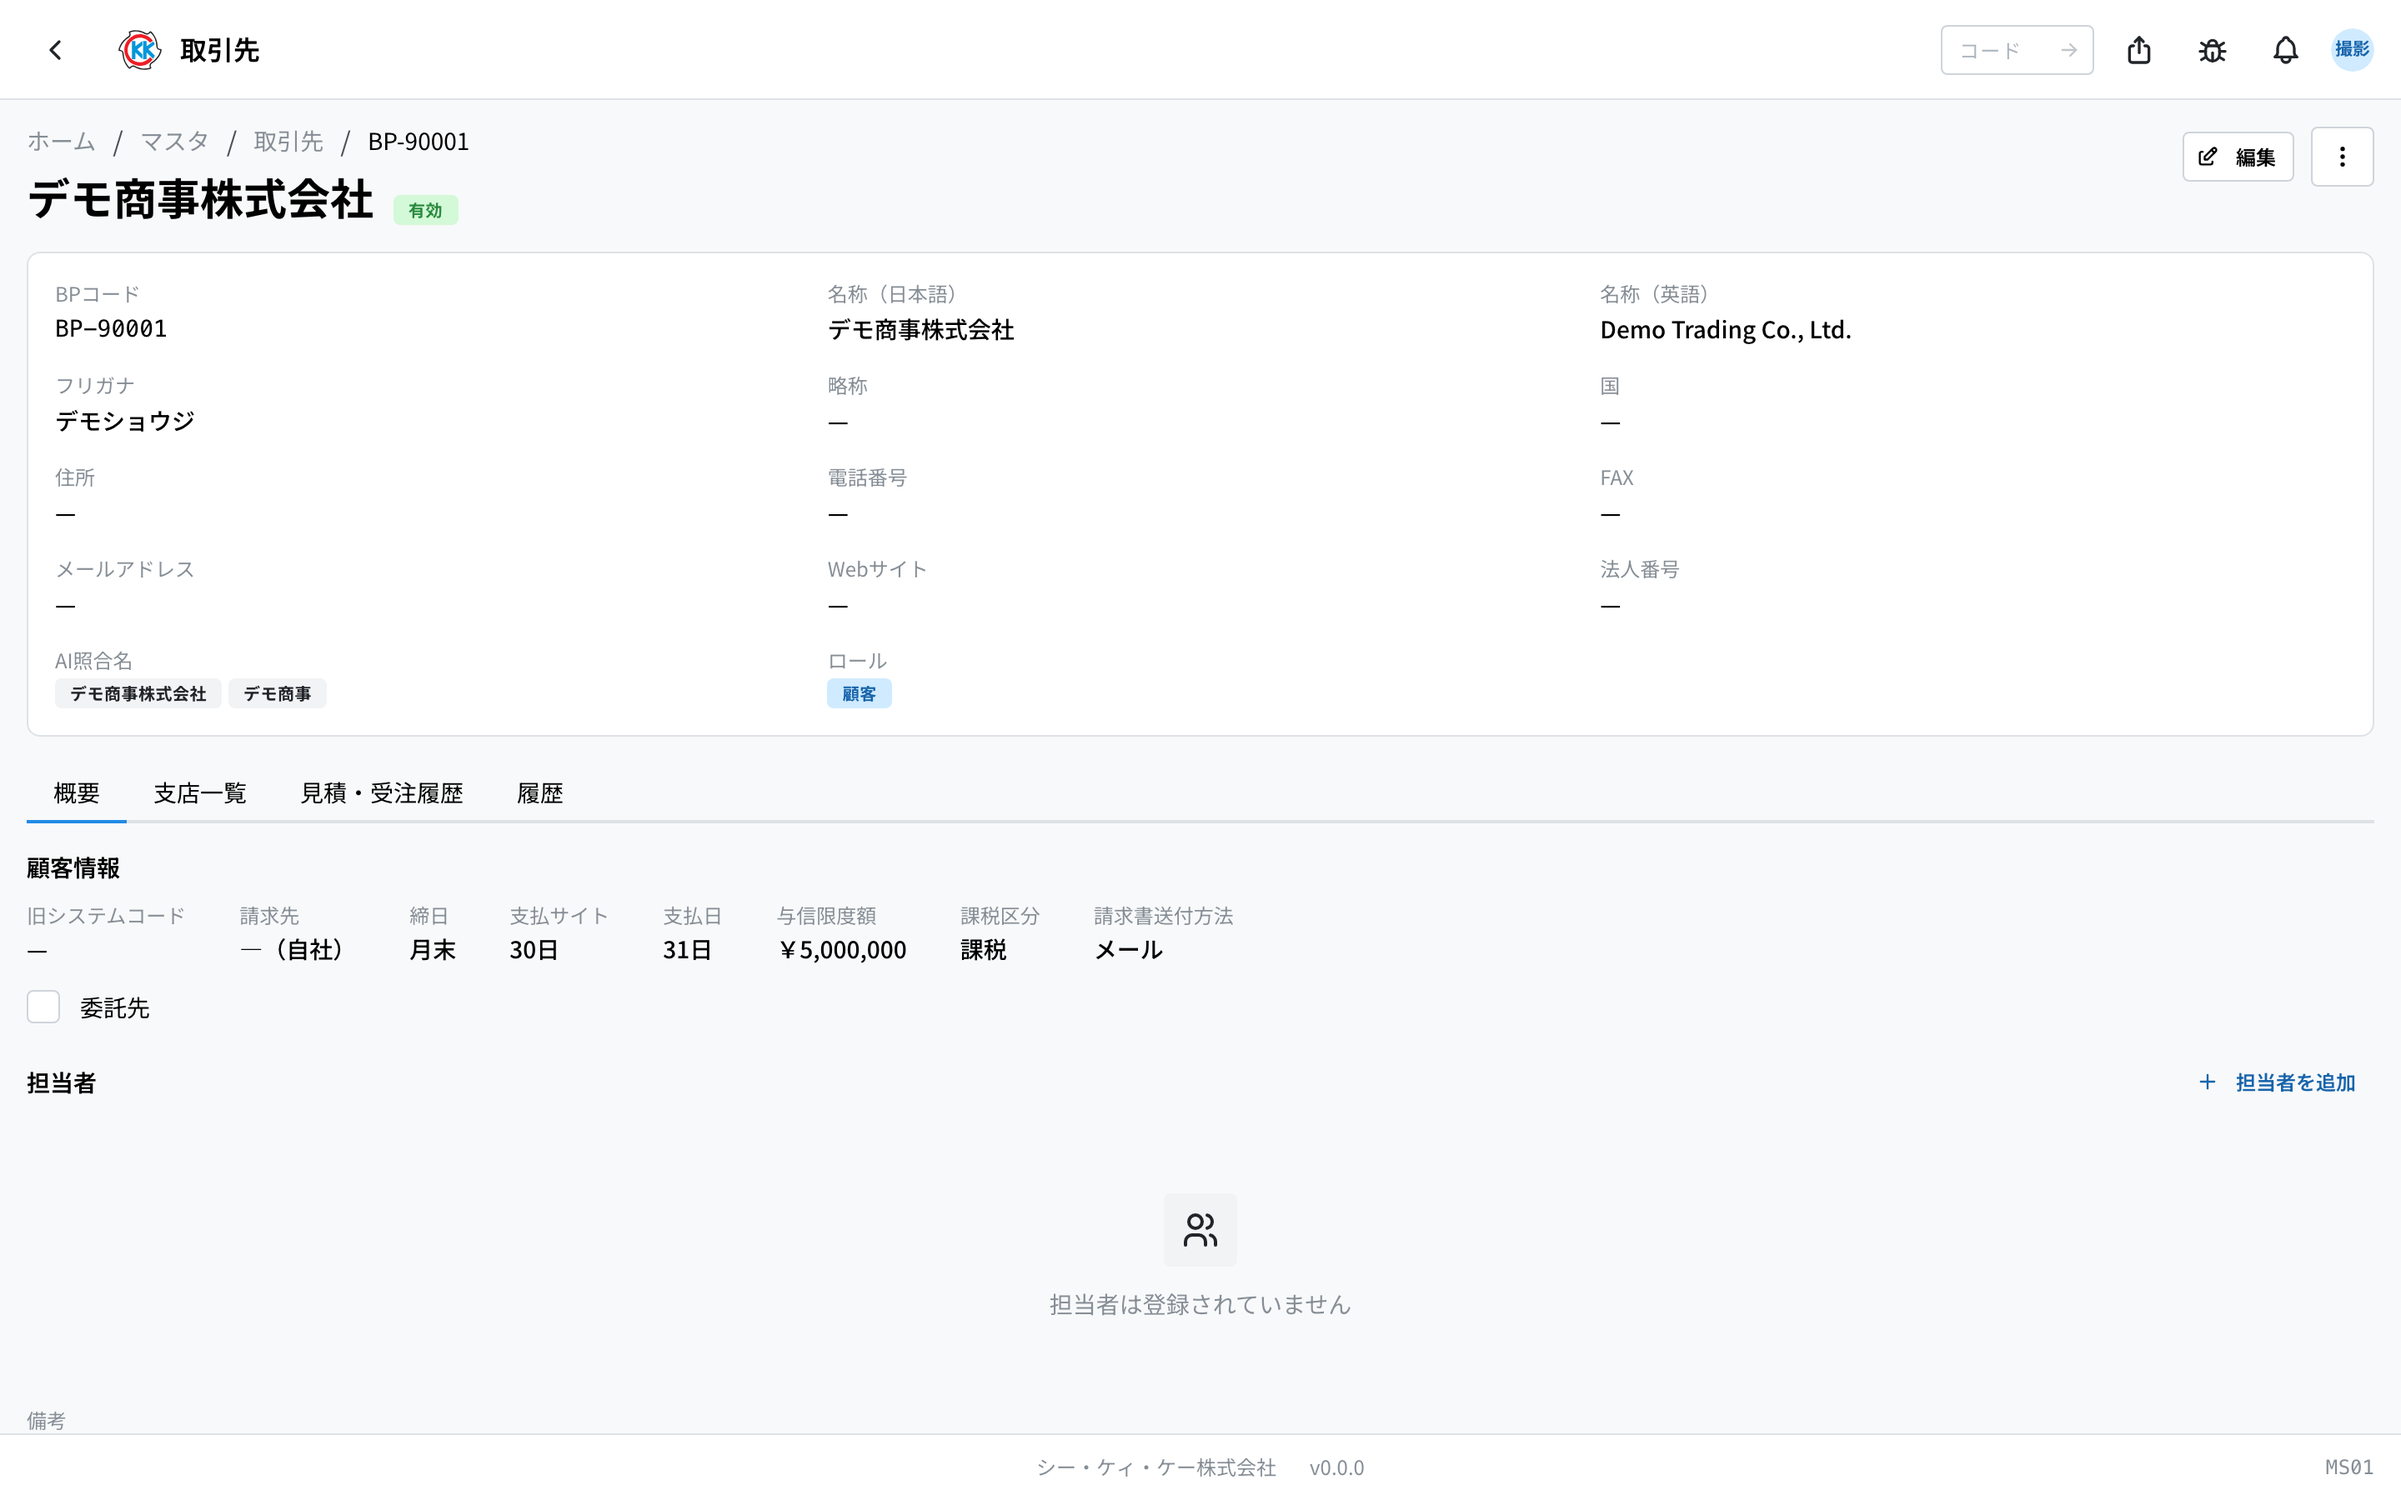
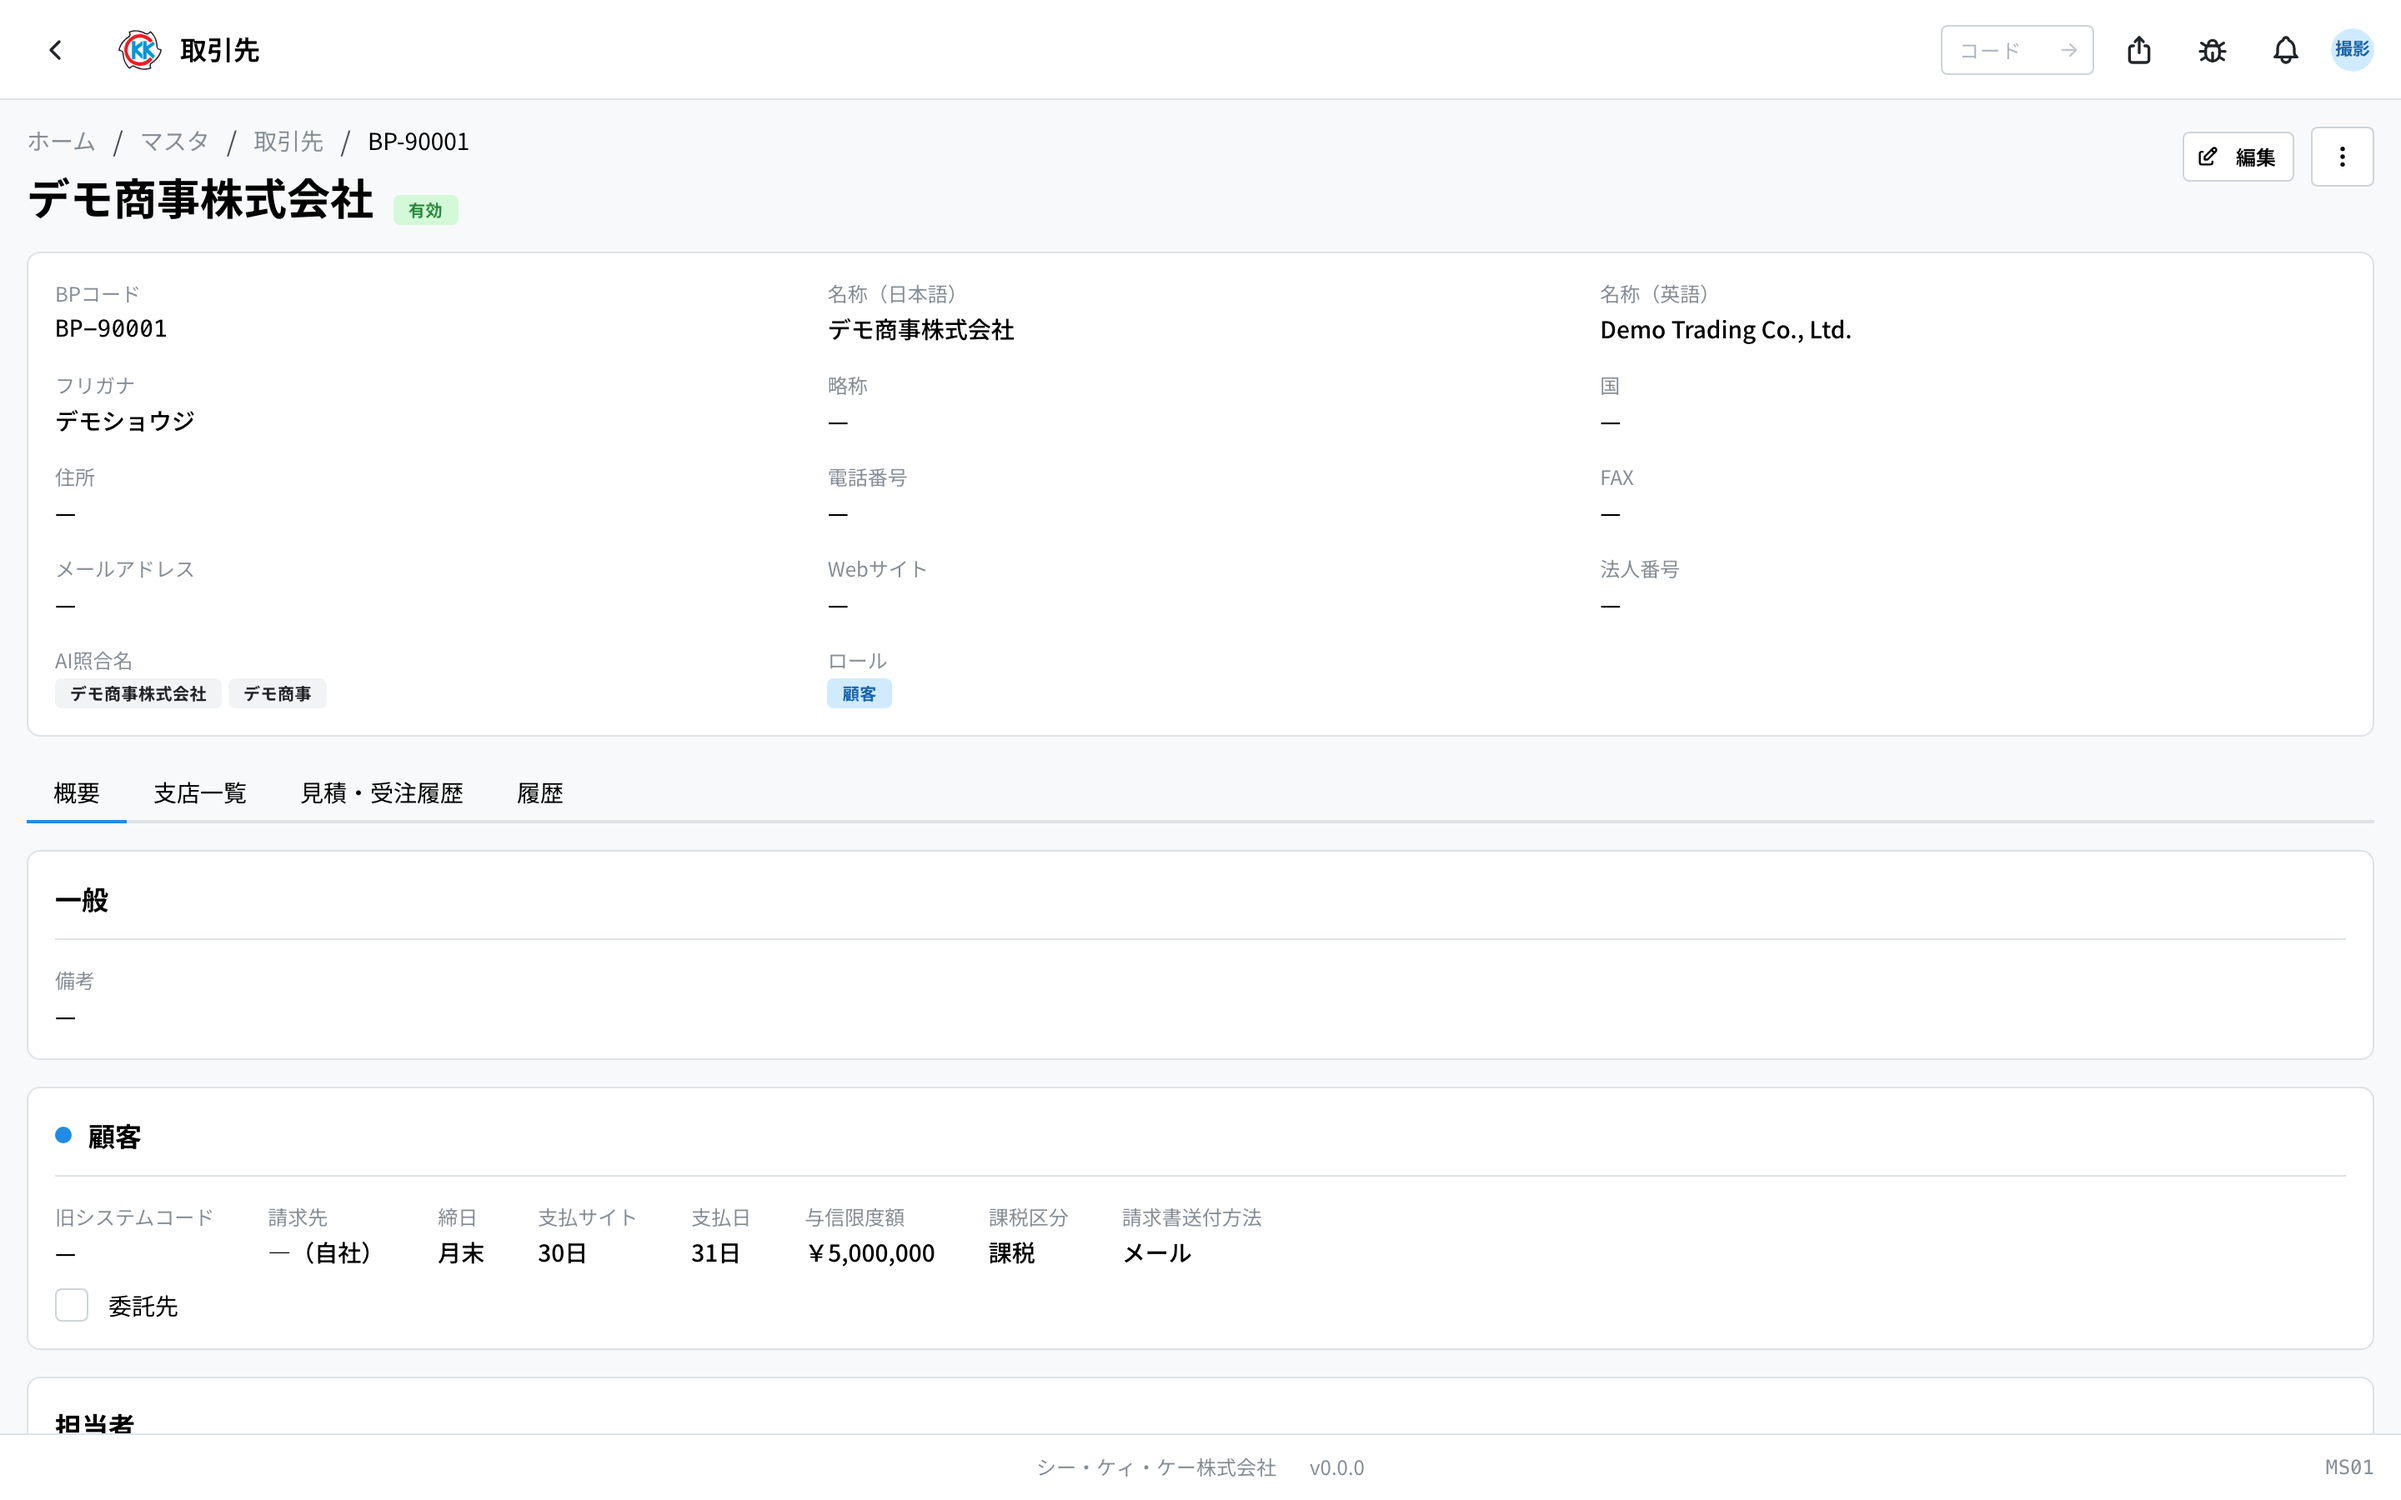
feat(master): 取引先詳細の概要タブを「一般」＋ロール別セクションに分割
1 取引先に複数ロールが付くので、概要タブをフラットに並べると
どの情報がどのロールのものか読み取れなかった。枠で区切る:

  一般（備考 — ロールに依らない情報）
  → 顧客 / 最終需要家 / 仕入先・外注先（付いているロールの分だけ）
  → 担当者

各ロール枠の見出しには一覧のバッジと同じ色のドットを付けて対応を取る。
仕入先・外注先の枠は「振込先」で区切って口座情報をまとめた。

担当者はロールに依らない共通情報だが、表かつ未登録時の EmptyState が
高いので、独立セクションとして最後に置いた（先頭の「一般」に含めると
ロール別の取引条件がスクロールしないと見えなくなる）。ContactsTable に
hideHeading を足し、セクション見出しと二重にならないようにしている。

マニュアル（ja/en/zh）の概要タブ説明とスクリーンショット 3 枚も更新。

Claude-Session: https://claude.ai/code/session_0161atMVb64Lh1ZAThmqZWuS

diff --git a/docker-compose/nextjs-web/src/components/master/business-partners/BpDetail.tsx b/docker-compose/nextjs-web/src/components/master/business-partners/BpDetail.tsx
@@ -9,12 +9,16 @@
 
 import {
   Badge,
+  Box,
   Checkbox,
+  Divider,
   Group,
+  Paper,
   Stack,
   Table,
   Tabs,
   Text,
+  Title,
 } from "@mantine/core";
 import {
   IconBuildingStore,
@@ -49,6 +53,7 @@ import {
 import { useTabParam } from "@/hooks/useUrlState";
 import { useIsMobile } from "@/hooks/useViewport";
 import {
+  BP_ROLE_COLOR,
   INVOICE_METHOD_LABEL,
   TAX_TYPE_LABEL,
   VENDOR_TYPE_LABEL,
@@ -59,6 +64,39 @@ const day = (v: number | null) =>
   v == null ? "—" : v === 31 ? "月末" : `${v}日`;
 
 const days = (v: number | null) => (v == null ? "—" : `${v}日`);
+
+/**
+ * 概要タブの 1 セクション。「一般」（取引先そのものの情報）と、付与されている
+ * ロールごとのセクションを同じ体裁で並べる。role を渡すと見出しにロール色の
+ * ドットが付き、一覧のバッジ色と対応が取れる。
+ */
+function OverviewSection({
+  title,
+  bpRole,
+  children,
+}: {
+  title: string;
+  bpRole?: string;
+  children: React.ReactNode;
+}) {
+  return (
+    <Paper p="md" radius="md" withBorder>
+      <Group align="center" gap="xs" mb="sm">
+        {bpRole && (
+          <Box
+            bg={`var(--mantine-color-${BP_ROLE_COLOR[bpRole] ?? "gray"}-6)`}
+            h={10}
+            style={{ borderRadius: 9999, flexShrink: 0 }}
+            w={10}
+          />
+        )}
+        <Title order={5}>{title}</Title>
+      </Group>
+      <Divider mb="md" />
+      {children}
+    </Paper>
+  );
+}
 
 export function BpDetail({
   record,
@@ -141,19 +179,25 @@ export function BpDetail({
         </Tabs.List>
 
         <Tabs.Panel pt="md" value="overview">
-          <Stack gap="lg">
+          <Stack gap="md">
+            {/* 一般 — ロールに関係なく取引先そのものに紐づく情報。 */}
+            <OverviewSection title="一般">
+              <FieldValue label="備考" value={record.notes || "—"} />
+            </OverviewSection>
+
+            {/* ロール別 — 付与されているロールの分だけセクションが並ぶ。 */}
             {record.roles.length === 0 && (
-              <Text c="dimmed" size="sm">
-                ロールが設定されていません。「編集」から顧客・最終需要家・仕入先
-                ・外注先のいずれかを付与すると、各書類で選べるようになります。
-              </Text>
+              <OverviewSection title="ロール">
+                <Text c="dimmed" size="sm">
+                  ロールが設定されていません。「編集」から顧客・最終需要家・
+                  仕入先・外注先のいずれかを付与すると、各書類で選べるように
+                  なります。
+                </Text>
+              </OverviewSection>
             )}
 
             {customer && (
-              <Stack gap="xs">
-                <Text fw={600} size="sm">
-                  顧客情報
-                </Text>
+              <OverviewSection bpRole="CUSTOMER" title="顧客">
                 <Group gap="xl" wrap="wrap">
                   <FieldValue
                     label="旧システムコード"
@@ -188,28 +232,22 @@ export function BpDetail({
                 <Checkbox
                   checked={customer.isConsignment}
                   label="委託先"
-                  mt={4}
+                  mt="sm"
                   readOnly
                 />
-              </Stack>
+              </OverviewSection>
             )}
 
             {endUser && (
-              <Stack gap="xs">
-                <Text fw={600} size="sm">
-                  最終需要家情報
-                </Text>
+              <OverviewSection bpRole="END_USER" title="最終需要家">
                 <Group gap="xl" wrap="wrap">
                   <FieldValue label="業種" value={endUser.industry || "—"} />
                 </Group>
-              </Stack>
+              </OverviewSection>
             )}
 
             {vendor && (
-              <Stack gap="xs">
-                <Text fw={600} size="sm">
-                  仕入先・外注先情報
-                </Text>
+              <OverviewSection bpRole="VENDOR" title="仕入先・外注先">
                 <Group gap="xl" wrap="wrap">
                   <FieldValue
                     label="外注種別"
@@ -234,6 +272,9 @@ export function BpDetail({
                     label="標準リードタイム"
                     value={days(vendor.leadTimeDays)}
                   />
+                </Group>
+                <Divider label="振込先" labelPosition="left" my="sm" />
+                <Group gap="xl" wrap="wrap">
                   <FieldValue label="銀行名" value={vendor.bankName || "—"} />
                   <FieldValue label="支店名" value={vendor.bankBranch || "—"} />
                   <FieldValue
@@ -245,17 +286,19 @@ export function BpDetail({
                     value={vendor.bankAccountNumber || "—"}
                   />
                 </Group>
-              </Stack>
+              </OverviewSection>
             )}
 
-            <Stack gap="xs">
+            {/* 担当者はロールに依らず取引先共通。表なので独立セクションにして
+                ロール別の取引条件が先に読めるようにする。 */}
+            <OverviewSection title="担当者">
               <ContactsTable
                 bpId={record.id}
                 bpName={record.nameJa}
                 contacts={record.contacts}
+                hideHeading
               />
-            </Stack>
-            <FieldValue label="備考" value={record.notes || "—"} />
+            </OverviewSection>
           </Stack>
         </Tabs.Panel>
 

diff --git a/docker-compose/nextjs-web/src/components/master/bp/ContactsTable.tsx b/docker-compose/nextjs-web/src/components/master/bp/ContactsTable.tsx
@@ -23,10 +23,13 @@ export function ContactsTable({
   bpId,
   bpName,
   contacts,
+  hideHeading = false,
 }: {
   bpId: string;
   bpName: string;
   contacts: ContactRow[];
+  /** 見出しを持つセクションの中で使うとき（取引先詳細）は「担当者」を二重に出さない。 */
+  hideHeading?: boolean;
 }) {
   const router = useRouter();
   const isMobile = useIsMobile();
@@ -62,10 +65,12 @@ export function ContactsTable({
 
   return (
     <>
-      <Group justify="space-between" mb="xs">
-        <Text fw={600} size="sm">
-          担当者
-        </Text>
+      <Group justify={hideHeading ? "flex-end" : "space-between"} mb="xs">
+        {!hideHeading && (
+          <Text fw={600} size="sm">
+            担当者
+          </Text>
+        )}
         <GhostButton
           leftSection={<IconPlus size={14} />}
           onClick={() => setAddOpen(true)}

diff --git a/docker-compose/nextjs-web/content/manual/operations/masters/business-partner/user.en.md b/docker-compose/nextjs-web/content/manual/operations/masters/business-partner/user.en.md
@@ -157,7 +157,7 @@ Click a row in the list to open that company's screen. The summary area at the t
 
 ![Business partner detail screen](../../../assets/screenshots/master-bp-detail-01.png)
 
-- **概要 (Overview)** … only the areas for the roles the company **actually has**. With the customer role you see the trade terms, with the end user role the industry, and with the supplier role the trade terms and the bank account. The contacts and the remarks are shown as well.
+- **概要 (Overview)** … a series of panels. The first is 「**一般**」 (General — remarks and anything else that belongs to the company itself, whatever its roles), then one panel for **each role the company actually has**, and 「**担当者**」 (Contacts) last. A role panel holds the trade terms for 「**顧客**」 (customer), the industry for 「**最終需要家**」 (end user), and the trade terms plus the bank account for 「**仕入先・外注先**」 (supplier / outsourcing partner). The dot to the left of a panel heading uses the same colour as that role's badge in the list.
 - **支店一覧 (Branches)** … the list of branches of this company.
 - **見積・受注履歴 (Quote and order history)** … the record of quotes and other documents made for this company.
 - **履歴 (History)** … the record of when and who changed this registration.

diff --git a/docker-compose/nextjs-web/content/manual/operations/masters/business-partner/user.md b/docker-compose/nextjs-web/content/manual/operations/masters/business-partner/user.md
@@ -157,7 +157,7 @@ screenshots: [master-bp-list-01, master-bp-new-01, master-bp-roles-01, master-bp
 
 ![取引先の詳細画面](../../../assets/screenshots/master-bp-detail-01.png)
 
-- **概要** … その会社に **付いているロールの欄だけ** が並びます。顧客ロールがあれば取引条件、最終需要家ロールがあれば業種、仕入先・外注先ロールがあれば取引条件と振込先が出ます。あわせて先方の担当者と備考も表示されます。
+- **概要** … 枠がいくつかに分かれて並びます。いちばん上が「**一般**」（備考など、ロールに関係なくその会社そのものの情報）、続いて **付いているロールの枠だけ** が 1 つずつ、最後に「**担当者**」です。ロールの枠は「**顧客**」なら取引条件、「**最終需要家**」なら業種、「**仕入先・外注先**」なら取引条件と振込先が入ります。枠の見出しの左にある丸い印は、一覧のロールのバッジと同じ色です。
 - **支店一覧** … この会社の支店の一覧です。
 - **見積・受注履歴** … この会社に出した見積などの記録です。
 - **履歴** … いつ誰がこの登録内容を変えたかの記録です。

diff --git a/docker-compose/nextjs-web/content/manual/operations/masters/business-partner/user.zh.md b/docker-compose/nextjs-web/content/manual/operations/masters/business-partner/user.zh.md
@@ -157,7 +157,7 @@ screenshots: [master-bp-list-01, master-bp-new-01, master-bp-roles-01, master-bp
 
 ![业务伙伴详情画面](../../../assets/screenshots/master-bp-detail-01.png)
 
-- **概要**（概要）… 只显示该公司 **实际拥有的角色** 对应的区域。有客户角色就显示交易条件，有最终需求方角色就显示行业，有供应商・外协厂角色就显示交易条件和汇款账户。同时还会显示对方的联系人和备注。
+- **概要**（概要）… 分成若干个区块依次排列。最上面是「**一般**」（一般 — 备注等与角色无关、属于公司本身的信息），接着是 **该公司实际拥有的角色** 各占一个区块，最后是「**担当者**」（联系人）。角色区块中，「**顧客**」（客户）为交易条件，「**最終需要家**」（最终需求方）为行业，「**仕入先・外注先**」（供应商・外协厂）为交易条件和汇款账户。区块标题左侧的圆点，与列表中该角色徽章的颜色一致。
 - **支店一覧**（分店列表）… 该公司的分店列表。
 - **見積・受注履歴**（报价・受订历史）… 向该公司发出的报价等记录。
 - **履歴**（历史）… 何时、由谁修改过本登记内容的记录。
